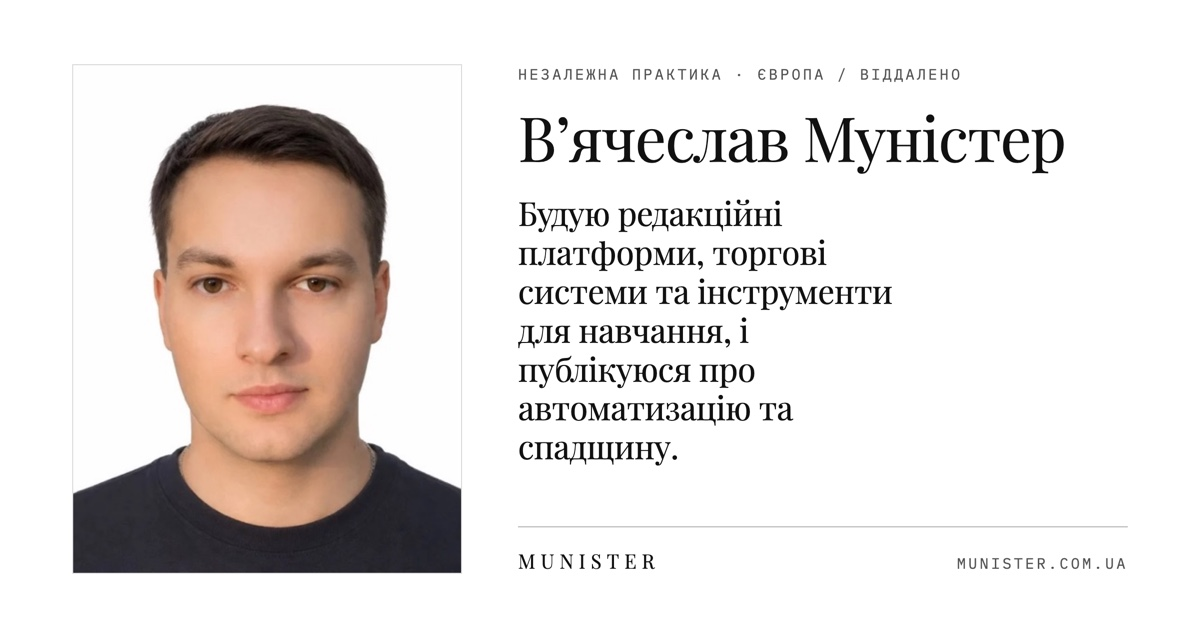
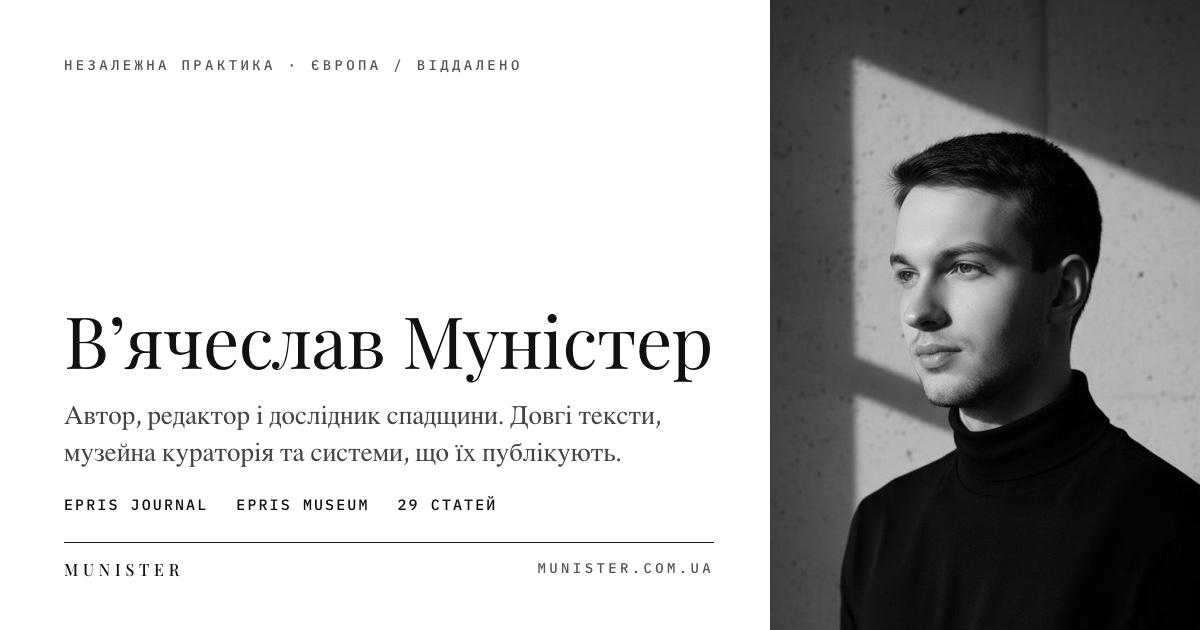
CV: the EPRIS editorial work in full; one style for every link preview
CV: EPRIS Journal becomes Author, Co-Editor and Digital Director with what
the work actually was – 33 of the journal's 45 stories and 6 of its 7
reviews, 12 interviews run end to end, the complete Autumn 2026 edition
co-edited with Maria Ivanova, EPRIS Museum (45 halls, open collections,
licences and open call), Architectura for iOS and the editorial
infrastructure. Headline, profile and schema now say writer, editor and
heritage researcher; capabilities gain writing and interviewing, editing
and publishing, curation and rights; EPRIS Museum and Architectura join
the selected work.

Previews: home, CV, Writing, Research, Courses and Italia now share one
card (text on white, the black-and-white portrait; Italia its own cover),
drawn by ~/epris-tools/munister_og.py. The CV no longer shows the old dark
card with outdated figures; Italia had no preview at all. ?v=2 busts
cached cards.

diff --git a/cv.html b/cv.html
@@ -20,16 +20,16 @@
 <meta property="og:url" content="https://munister.com.ua/cv.html">
 <meta property="og:site_name" content="Viacheslav Munister">
 <meta property="og:title" content="Viacheslav Munister · CV">
-<meta property="og:description" content="Writer, heritage researcher and digital maker working across archives, editorial systems, digital art and product delivery.">
-<meta property="og:image" content="https://munister.com.ua/images/og-cover.jpg">
+<meta property="og:description" content="Writer, editor and heritage researcher working across long-form journalism, museum curation, editorial systems and product delivery.">
+<meta property="og:image" content="https://munister.com.ua/images/og-cv.jpg?v=2">
 <meta property="og:image:width" content="1200">
 <meta property="og:image:height" content="630">
 <meta property="og:image:alt" content="Viacheslav Munister">
 <meta property="og:locale" content="en_US">
 <meta name="twitter:card" content="summary_large_image">
 <meta name="twitter:title" content="Viacheslav Munister · CV">
-<meta name="twitter:description" content="Writer, heritage researcher and digital maker working across archives, editorial systems, digital art and product delivery.">
-<meta name="twitter:image" content="https://munister.com.ua/images/og-cover.jpg">
+<meta name="twitter:description" content="Writer, editor and heritage researcher working across long-form journalism, museum curation, editorial systems and product delivery.">
+<meta name="twitter:image" content="https://munister.com.ua/images/og-cv.jpg?v=2">
 <meta name="twitter:image:alt" content="Viacheslav Munister">
 
 <noscript></noscript>
@@ -235,12 +235,12 @@ footer{
   <header class="head">
     <div class="eyebrow">Curriculum Vitae / 2026</div>
     <h1>Viacheslav Munister</h1>
-    <p>Writer, heritage researcher and digital maker working across archives, editorial systems, digital art and product delivery.</p>
+    <p>Writer, editor and heritage researcher working across long-form journalism, museum curation, editorial systems and product delivery.</p>
   </header>
 
   <section class="section plain">
     <div class="section-title">Profile</div>
-    <p class="summary"><strong>I collect traces of places, objects and people, then give them a form that can be entered.</strong> Some become essays, some become archives, some become quiet digital instruments. Alongside this authorial work, I lead product direction and delivery for complex editorial, educational, commerce and operational systems.</p>
+    <p class="summary"><strong>I collect traces of places, objects and people, then give them a form that can be entered.</strong> Some become essays, some become archives, some become quiet digital instruments. At EPRIS Journal I write, interview, edit and curate: most of the journal’s published stories, its interviews and reviews, the complete Autumn 2026 edition and the EPRIS Museum. Alongside this authorial work, I lead product direction and delivery for complex editorial, educational, commerce and operational systems.</p>
   </section>
 
   <section class="section">
@@ -256,12 +256,15 @@ footer{
         </ul>
       </article>
       <article class="job">
-        <div class="job-head"><h3>Editorial and Digital Director</h3><div class="date">Jul 2025 – Present</div></div>
-        <div class="org"><a href="https://eprisjournal.com">EPRIS Journal</a> / Independent design and culture publication</div>
+        <div class="job-head"><h3>Author, Co-Editor and Digital Director</h3><div class="date">Jul 2025 – Present</div></div>
+        <div class="org"><a href="https://eprisjournal.com">EPRIS Journal</a> / Independent journal of art, architecture and design, Milan · Kyiv</div>
         <ul>
-          <li>Shape the editorial and visual language across essays, research, translation, image direction and digital publication.</li>
-          <li>Design article structures and publishing flows that let long-form work keep its pace, context and visual character.</li>
-          <li>Develop connected formats for the journal: EPRIS Showcase, Bureau, Stage and the visual research chapters.</li>
+          <li>Wrote 33 of the journal’s 45 published stories and 6 of its 7 reviews: essays on architecture, art and cultural memory, and 12 long-form interviews with artists, architects, photographers, designers and institutions, among them Museo Nivola, Olha Wood, Manuel Heywinkel and Roland M Schwerdtfeger.</li>
+          <li>Commission and conduct interviews end to end: research, written questionnaires in English and French, follow-up questions, transcription, editing and approval by the interviewee before publication.</li>
+          <li>Co-edited with editor-in-chief Maria Ivanova <a href="https://eprisjournal.com/issue">The Temperature of Time</a>, the complete Autumn 2026 edition: 45 stories and 7 reviews in six sections, a 230 × 300 mm print layout, an online reader and citation formats.</li>
+          <li>Conceived and curate <a href="https://museum.eprisjournal.com">EPRIS Museum</a>: 45 halls, some 640 works by 375 artists from open collections (Art Institute of Chicago, Cleveland Museum of Art, National Gallery of Art) and openly licensed photography, each credited with its licence and holding collection, plus a standing open call with its own licence agreement.</li>
+          <li>Wrote and produced <i>Architectura: Italy Drawn</i> for iPhone and iPad: 47 measured drawings of Italian buildings, seven courses, facts checked against published sources, in English, Italian and Russian.</li>
+          <li>Built the editorial infrastructure: the content system and publishing flow, translation into seven languages, author questionnaires, interview transcription, picture research and rights clearance, link previews and search visibility.</li>
         </ul>
       </article>
       <article class="job">
@@ -296,7 +299,9 @@ footer{
   <section class="section">
     <div class="section-title">Selected Product Work</div>
     <div class="projects">
-      <article class="project"><div class="meta">Editorial / Multilingual</div><h3>EPRIS Journal</h3><p>Editorial platform, article system, translation workflows, digital identity and production administration.</p></article>
+      <article class="project"><div class="meta">Editorial / Multilingual</div><h3>EPRIS Journal</h3><p>Editorial platform, article system, seven-language translation workflow, author questionnaires and the complete Autumn 2026 edition with its online reader.</p></article>
+      <article class="project"><div class="meta">Curation / Open access</div><h3>EPRIS Museum</h3><p>A free online museum: 45 halls of public-domain and openly licensed work, full credit and licence under every plate, an open call for living artists.</p></article>
+      <article class="project"><div class="meta">Education / iOS</div><h3>Architectura</h3><p>An atlas and a school of Italian architecture: measured drawings, courses and examinations, printable handouts and a classroom mode.</p></article>
       <article class="project"><div class="meta">EdTech / Product System</div><h3>TeachED</h3><p>Teacher workspace combining lesson boards, classroom tools, reusable content and AI-supported preparation.</p></article>
       <article class="project"><div class="meta">ERP / Commerce</div><h3>Mania Group</h3><p>Catalogue, stock import, offers, product administration and operational workflows for a fashion retailer.</p></article>
       <article class="project"><div class="meta">Publishing / Commerce</div><h3>AM Publishing</h3><p>Multilingual publishing catalogue, author pages, book presentation, administration and Shopify purchase flow.</p></article>
@@ -341,7 +346,10 @@ footer{
     <div class="section-title">Core Capabilities</div>
     <div class="two-col">
       <div class="capability"><h3>Product and systems</h3><p>Discovery, product strategy, service design, workflows, information architecture, roadmaps, requirements and system modelling.</p></div>
-      <div class="capability"><h3>Editorial and heritage</h3><p>Research framing, essay structure, archival thinking, visual culture, bilingual narratives, image direction and digital publishing.</p></div>
+      <div class="capability"><h3>Writing and interviewing</h3><p>Long-form essays and features in English, interview research and questionnaires, conducting and editing interviews, reviews, standfirsts, headlines and captions.</p></div>
+      <div class="capability"><h3>Editing and publishing</h3><p>Commissioning, structural and line editing, fact-checking against sources, issue planning and sequencing, print layout and production, citation and distribution.</p></div>
+      <div class="capability"><h3>Curation and rights</h3><p>Exhibition and hall concepts, picture research in open collections, Creative Commons and public-domain clearance, credit lines, open calls and licence agreements.</p></div>
+      <div class="capability"><h3>Heritage research</h3><p>Research framing, archival thinking, architecture and visual culture, bilingual narratives and documentary platforms.</p></div>
       <div class="capability"><h3>Experience and delivery</h3><p>UX direction, interface critique, content structure, design-development coordination, QA, launch and post-launch iteration.</p></div>
       <div class="capability"><h3>Technical fluency</h3><p>Web platforms, APIs, PostgreSQL, SQL and Oracle data modelling, Python, Swift/SwiftUI, C++, automation, AI/LLM integrations, CI/CD, Linux infrastructure, Docker and production operations.</p></div>
     </div>
@@ -355,12 +363,12 @@ footer{
     </div>
   </section>
 
-  <footer><span>Viacheslav Munister / CV</span><span>Updated August 2026 · munister.com.ua</span></footer>
+  <footer><span>Viacheslav Munister / CV</span><span>Updated September 2026 · munister.com.ua</span></footer>
 
 </main>
 
 <script type="application/ld+json">
-{"@context": "https://schema.org", "@type": "Person", "@id": "https://munister.com.ua/#viacheslav-munister", "name": "Viacheslav Munister", "url": "https://munister.com.ua/", "mainEntityOfPage": "https://munister.com.ua/cv.html", "image": "https://munister.com.ua/images/munister-2026.jpg", "email": "mailto:munister@outlook.com", "jobTitle": "Writer, heritage researcher and digital maker", "worksFor": {"@type": "Organization", "name": "Munister Agency", "url": "https://agency.munister.com.ua"}, "sameAs": ["https://teached.tech/", "https://eprisjournal.com/", "https://museum.eprisjournal.com/", "https://agency.munister.com.ua/"], "knowsAbout": ["Product strategy", "Systems design", "Enterprise resource planning", "Web development", "Technical audits"]}
+{"@context": "https://schema.org", "@type": "Person", "@id": "https://munister.com.ua/#viacheslav-munister", "name": "Viacheslav Munister", "url": "https://munister.com.ua/", "mainEntityOfPage": "https://munister.com.ua/cv.html", "image": "https://munister.com.ua/images/munister-2026.jpg", "email": "mailto:munister@outlook.com", "jobTitle": "Writer, editor and heritage researcher", "worksFor": {"@type": "Organization", "name": "Munister Agency", "url": "https://agency.munister.com.ua"}, "sameAs": ["https://teached.tech/", "https://eprisjournal.com/", "https://museum.eprisjournal.com/", "https://agency.munister.com.ua/"], "knowsAbout": ["Editorial writing", "Interviewing", "Editing", "Museum curation", "Art and architecture history", "Rights and licensing", "Product strategy", "Systems design", "Enterprise resource planning", "Web development", "Technical audits"]}
 </script>
 </body>
 </html>

diff --git a/index.html b/index.html
@@ -25,7 +25,7 @@
 <meta property="og:site_name" content="Viacheslav Munister">
 <meta property="og:title" content="Viacheslav Munister · Applied systems research and digital practice">
 <meta property="og:description" content="Applied digital systems for editorial research, operations, learning and cultural heritage.">
-<meta property="og:image" content="https://munister.com.ua/images/og-en.jpg">
+<meta property="og:image" content="https://munister.com.ua/images/og-en.jpg?v=2">
 <meta property="og:image:width" content="1200">
 <meta property="og:image:height" content="630">
 <meta property="og:image:type" content="image/jpeg">
@@ -34,7 +34,7 @@
 <meta name="twitter:card" content="summary_large_image">
 <meta name="twitter:title" content="Viacheslav Munister · Applied systems research and digital practice">
 <meta name="twitter:description" content="Applied digital systems for editorial research, operations, learning and cultural heritage.">
-<meta name="twitter:image" content="https://munister.com.ua/images/og-en.jpg">
+<meta name="twitter:image" content="https://munister.com.ua/images/og-en.jpg?v=2">
 <meta name="twitter:image:alt" content="Viacheslav Munister, independent practice">
 
 

diff --git a/course/index.html b/course/index.html
@@ -21,14 +21,14 @@
 <meta property="og:site_name" content="Viacheslav Munister">
 <meta property="og:title" content="Courses · Viacheslav Munister">
 <meta property="og:description" content="Course materials written up as working syllabi and reference sheets, built while teaching the subject rather than after the fact.">
-<meta property="og:image" content="https://munister.com.ua/images/og-en.jpg">
+<meta property="og:image" content="https://munister.com.ua/images/og-course.jpg?v=2">
 <meta property="og:image:width" content="1200">
 <meta property="og:image:height" content="630">
 <meta property="og:locale" content="en_US">
 <meta name="twitter:card" content="summary_large_image">
 <meta name="twitter:title" content="Courses · Viacheslav Munister">
 <meta name="twitter:description" content="Course materials written up as working syllabi and reference sheets, built while teaching the subject rather than after the fact.">
-<meta name="twitter:image" content="https://munister.com.ua/images/og-en.jpg">
+<meta name="twitter:image" content="https://munister.com.ua/images/og-course.jpg?v=2">
 
 <script type="application/ld+json">
 {

diff --git a/research/index.html b/research/index.html
@@ -21,12 +21,12 @@
 <meta property="og:site_name" content="Viacheslav Munister">
 <meta property="og:title" content="Research · Viacheslav Munister">
 <meta property="og:description" content="29 peer-reviewed papers, 2021–2026: industrial automation, edge and fog computing, machine learning in measurement systems.">
-<meta property="og:image" content="https://munister.com.ua/images/og-research.jpg">
+<meta property="og:image" content="https://munister.com.ua/images/og-research.jpg?v=2">
 <meta property="og:image:width" content="1200">
 <meta property="og:image:height" content="630">
 <meta property="og:image:alt" content="Research by Viacheslav Munister">
 <meta name="twitter:card" content="summary_large_image">
-<meta name="twitter:image" content="https://munister.com.ua/images/og-research.jpg">
+<meta name="twitter:image" content="https://munister.com.ua/images/og-research.jpg?v=2">
 
 <link rel="stylesheet" href="/munister.css?v=45">
 

diff --git a/writing/index.html b/writing/index.html
@@ -21,12 +21,12 @@
 <meta property="og:site_name" content="Viacheslav Munister">
 <meta property="og:title" content="Writing · Viacheslav Munister">
 <meta property="og:description" content="Essays, criticism and interviews in EPRIS Journal: architecture, restoration, design and the visual culture of cities.">
-<meta property="og:image" content="https://munister.com.ua/images/og-writing.jpg">
+<meta property="og:image" content="https://munister.com.ua/images/og-writing.jpg?v=2">
 <meta property="og:image:width" content="1200">
 <meta property="og:image:height" content="630">
 <meta property="og:image:alt" content="Writing by Viacheslav Munister">
 <meta name="twitter:card" content="summary_large_image">
-<meta name="twitter:image" content="https://munister.com.ua/images/og-writing.jpg">
+<meta name="twitter:image" content="https://munister.com.ua/images/og-writing.jpg?v=2">
 
 <link rel="stylesheet" href="/munister.css?v=45">
 

diff --git a/italy/index.html b/italy/index.html
@@ -15,6 +15,16 @@
   <!-- Google Fonts -->
 
   <link rel="stylesheet" href="italy.css?v=2">
+<meta property="og:type" content="website">
+<meta property="og:url" content="https://munister.com.ua/italy/">
+<meta property="og:title" content="Italia attraverso gli occhi di Munister">
+<meta property="og:description" content="Un atlante dell’Italia come codice visivo: architettura, luce, proporzione e memoria dei materiali.">
+<meta property="og:image" content="https://munister.com.ua/images/og-italy.jpg?v=2">
+<meta property="og:image:width" content="1200">
+<meta property="og:image:height" content="630">
+<meta property="og:locale" content="it_IT">
+<meta name="twitter:card" content="summary_large_image">
+<meta name="twitter:image" content="https://munister.com.ua/images/og-italy.jpg?v=2">
 </head>
 
 <body class="lang-ua">
